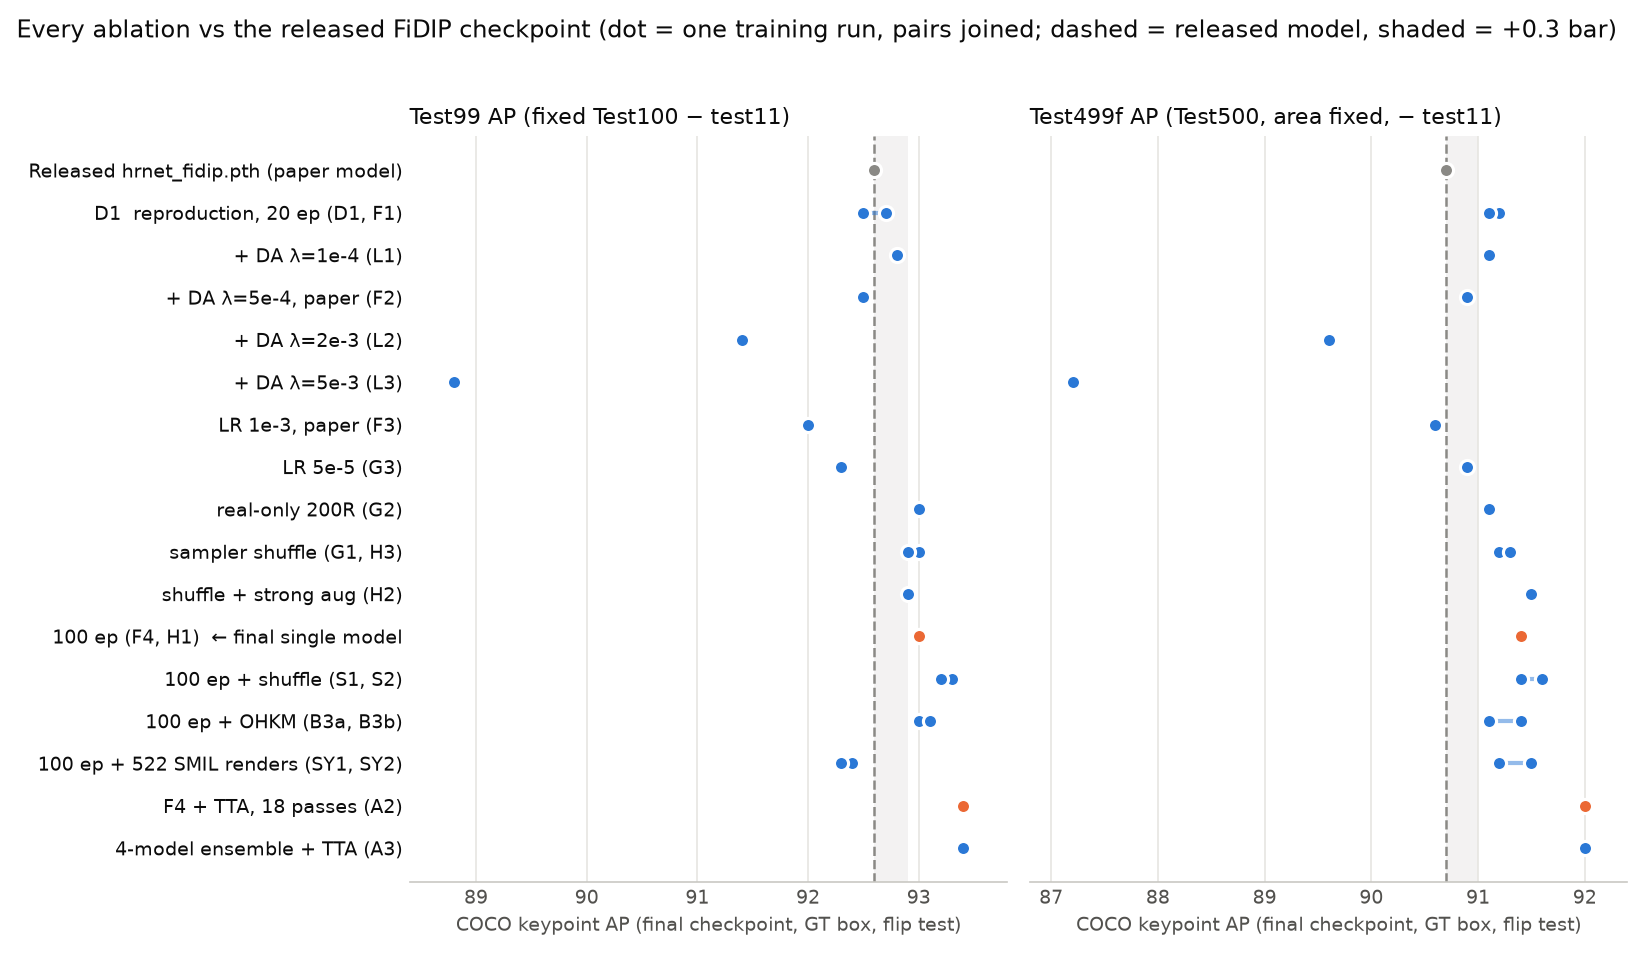
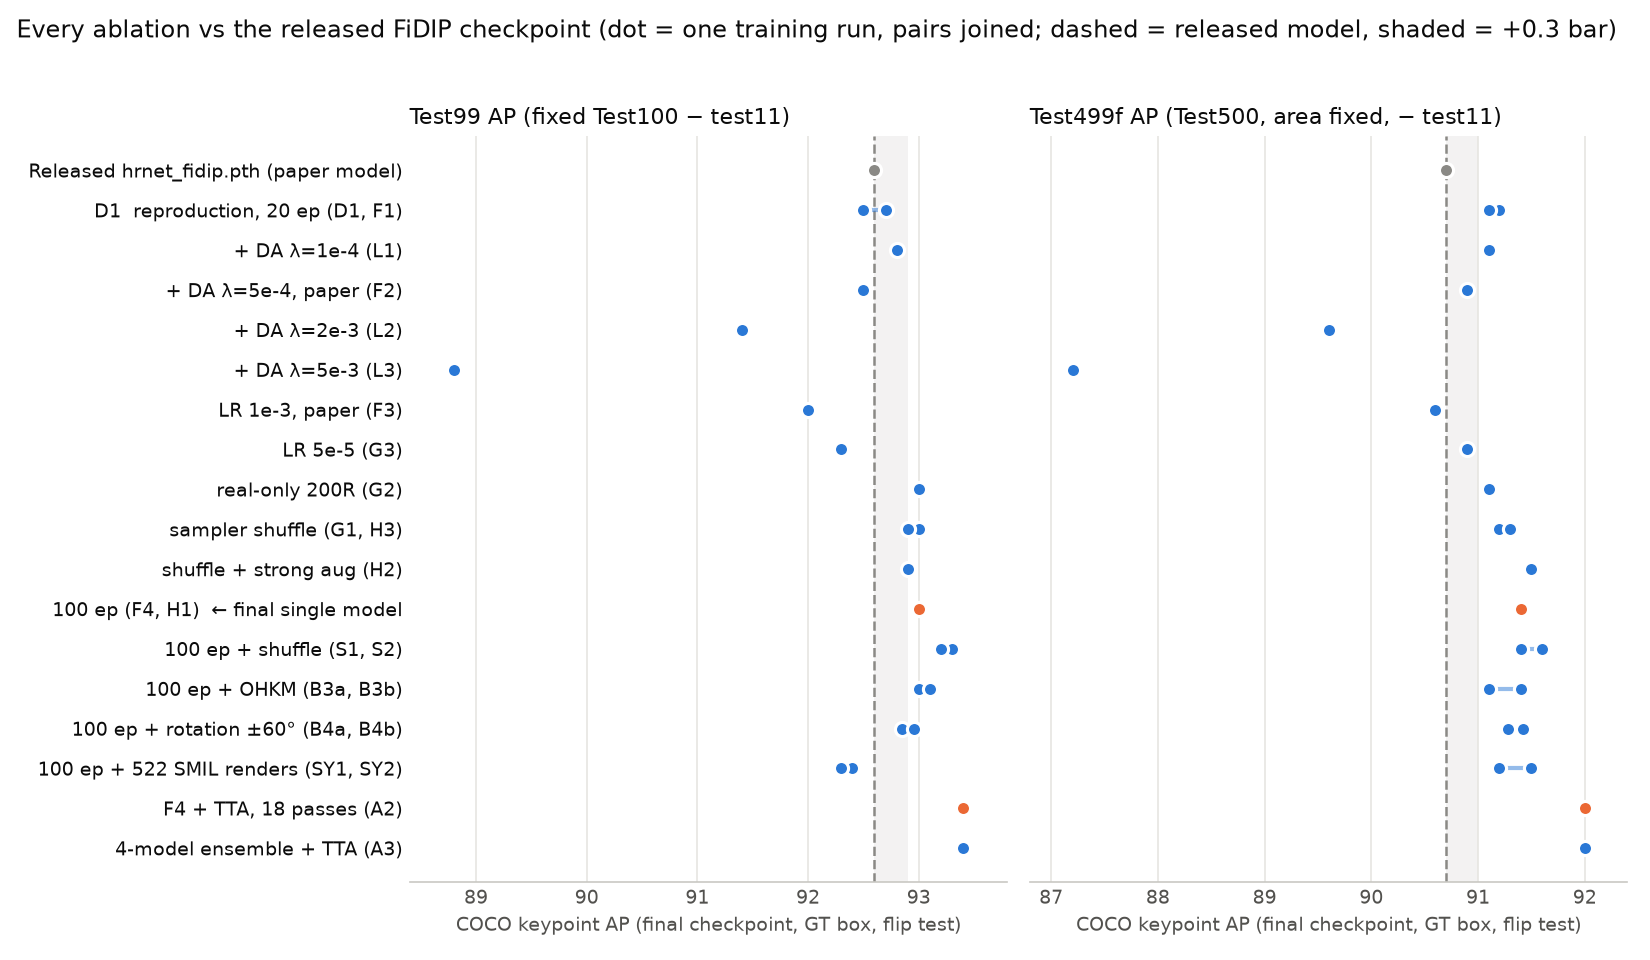
Report: B4 result (rotation ±60°, not confirmed) in §6.1 and Fig. 1

diff --git a/tools/plot_report_ablation.py b/tools/plot_report_ablation.py
@@ -17,6 +17,7 @@ rows = [
  ("100 ep (F4, H1)  ← final single model", [(93.0, 91.4), (93.0, 91.4)], 'final'),
  ("100 ep + shuffle (S1, S2)", [(93.3, 91.4), (93.2, 91.6)], ''),
  ("100 ep + OHKM (B3a, B3b)", [(93.0, 91.4), (93.1, 91.1)], ''),
+ ("100 ep + rotation ±60° (B4a, B4b)", [(92.85, 91.28), (92.96, 91.42)], ''),
  ("100 ep + 522 SMIL renders (SY1, SY2)", [(92.4, 91.5), (92.3, 91.2)], ''),
  ("F4 + TTA, 18 passes (A2)", [(93.4, 92.0)], 'final'),
  ("4-model ensemble + TTA (A3)", [(93.4, 92.0)], ''),

diff --git a/REPORT.md b/REPORT.md
@@ -1,6 +1,6 @@
 <!--
 DRAFT, 2026-11-04. Open items before submission:
-  [ ] B4a/B4b (100 ep + ROT_FACTOR 60) are still training (jobs 11631221/11631233, A100). Fill §6.2 row "B4" and re-check the final-model decision.
+  [x] B4a/B4b finished (not confirmed); final model unchanged.
   [x] Annotation-audit branch merged into this branch; results, logs, figures and generated data tracked in git (2026-11-04).
   [ ] Merge this branch (claude/fidip-grading-rubric-86bb65) into main before submission.
   [ ] Fill in the name/ID line and the repo URL / commit hash below.
@@ -34,8 +34,8 @@ the paper uses. Evaluation conditions are defined in §4.
 2. **Improvement.** One controlled change helped and was confirmed by a replicate: training 100 epochs instead of 20 (F4/H1). It gives +0.4 AP
    over the released model on Test99 and +0.7 on Test499f. A fixed test-time-augmentation grid adds a further +0.4 / +0.6.
 3. **Negative results** (§6): domain adaptation (the "DIP" in FiDIP) does not help at any of 5 λ values once the labels are correct. The paper's
-   LR of 1e-3 overfits. Real-only training matches real + synthetic. 522 new SMIL renders, OHKM loss, and a sampler-shuffle fix all fall inside
-   run-to-run noise.
+   LR of 1e-3 overfits. Real-only training matches real + synthetic. 522 new SMIL renders, OHKM loss, stronger rotation augmentation and a
+   sampler-shuffle fix all fall inside run-to-run noise.
 
 ---
 
@@ -224,7 +224,7 @@ bar. Orange: adopted. `tools/plot_report_ablation.py`.*
 | **F4 / H1** | **100 epochs** | **94.0 / 93.9** | **93.0 / 93.0** | **93.2 / 93.2** | **91.7 / 91.6** | **91.4 / 91.4** | **confirmed** |
 | S1 / S2 | 100 ep + shuffle | 94.3 / 94.2 | 93.3 / 93.2 | 93.5 / 93.4 | 91.5 / 91.7 | 91.4 / 91.6 | not confirmed (trend +0.1–0.3) |
 | B3a / B3b | 100 ep + OHKM (top-8 joints) | 94.0 / 94.1 | 93.0 / 93.1 | 93.2 / 93.3 | 91.5 / 91.2 | 91.4 / 91.1 | not confirmed |
-| B4a / B4b | 100 ep + rotation 60° | *running* | | | | | *pending* |
+| B4a / B4b | 100 ep + rotation ±60° (A100) | 93.8 / 94.0 | 92.9 / 93.0 | 93.0 / 93.1 | 91.4 / 91.6 | 91.3 / 91.4 | not confirmed |
 | SY1 / SY2 | 100 ep + 522 new SMIL renders (§7.1) | 93.2 / 93.1 | 92.4 / 92.3 | 92.6 / 92.4 | 91.7 / 91.5 | 91.5 / 91.2 | no effect on Test499f; −0.6 Test99 |
 | A1 | ensemble {F4,H1,S1,S2}, flip only | 94.2 | 93.2 | 93.4 | 91.8 | 91.5 | below bar |
 | **A2** | F4 + TTA | 94.4 | 93.4 | 93.6 | 92.2 | **92.0** | adopted (system) |
